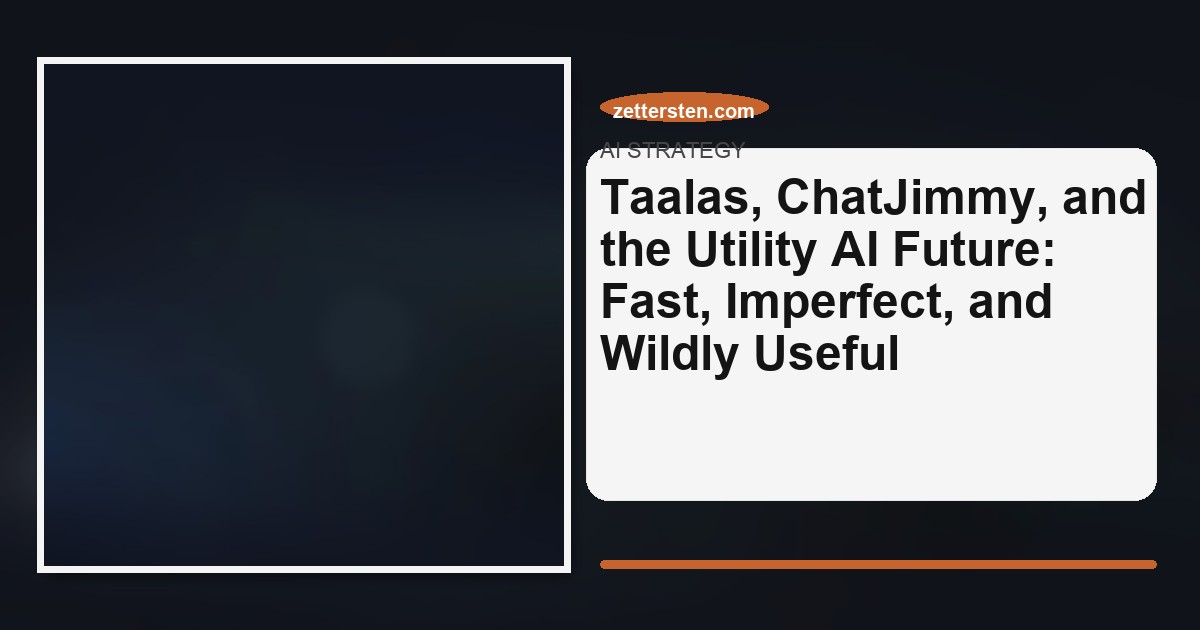
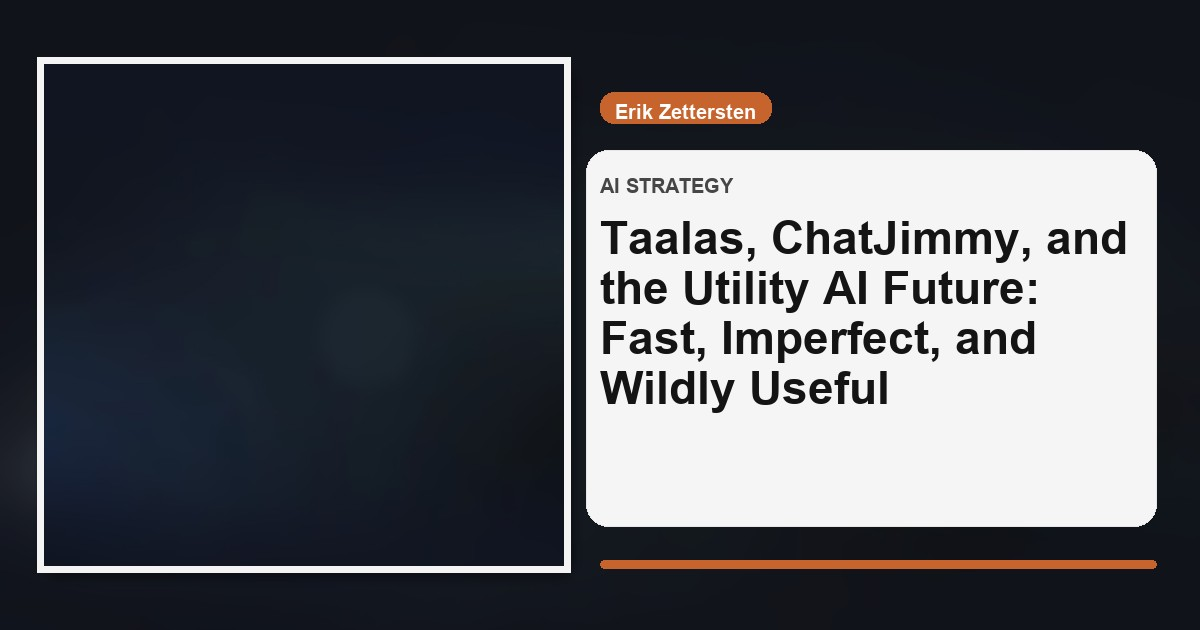
Polish OG card layout: fix label sizing, category placement, and brand name

Changed region(s): [[0.4933, 0.1206, 0.9558, 0.6635], [0.4625, 0.7841, 0.9867, 0.8444]]

diff --git a/scripts/generate_og_images.py b/scripts/generate_og_images.py
@@ -39,6 +39,7 @@ BRAND_ORANGE = (199, 99, 44)
 BRAND_BG = (235, 235, 235)
 TEXT_DARK = (20, 20, 20)
 TEXT_MUTED = (70, 70, 70)
+RENDER_VERSION = "v2"
 
 
 def sha256_file(path: Path) -> str:
@@ -153,36 +154,29 @@ def create_og(source: Path, title: str, category: str, out_path: Path) -> None:
 
     # Right-side text area
     text_x = 600
-    title_width = CANVAS_W - text_x - SAFE_PAD
+    title_width = CANVAS_W - text_x - SAFE_PAD - 28
 
-    wrapped, title_font = fit_text(draw, title, title_width, max_lines=4)
-    title_bbox = draw.multiline_textbbox((text_x, 170), wrapped, font=title_font, spacing=8)
-
-    # Soft text backing plate
-    plate_pad = 24
-    plate = [
-        text_x - 14,
-        title_bbox[1] - 30,
-        CANVAS_W - SAFE_PAD,
-        title_bbox[3] + 120,
-    ]
-    draw.rounded_rectangle(plate, radius=22, fill=(245, 245, 245, 0), outline=(230, 230, 230), width=1)
+    # Soft text backing plate (fixed, keeps category + title fully inside)
+    plate = [text_x - 14, 150, CANVAS_W - SAFE_PAD, 526]
+    draw.rounded_rectangle(plate, radius=22, fill=(245, 245, 245), outline=(230, 230, 230), width=1)
 
     # Brand label
     badge_font = find_font("/System/Library/Fonts/Supplemental/Arial Bold.ttf", 20)
-    badge_text = "zettersten.com"
+    badge_text = "Erik Zettersten"
     bt = draw.textbbox((0, 0), badge_text, font=badge_font)
     bw, bh = bt[2] - bt[0], bt[3] - bt[1]
-    badge_rect = (text_x, 92, text_x + bw + 26, 92 + bh + 14)
-    draw.rounded_rectangle(badge_rect, radius=999, fill=BRAND_ORANGE)
-    draw.text((text_x + 13, 99), badge_text, font=badge_font, fill=(255, 255, 255))
+    badge_rect = (text_x, 92, text_x + bw + 30, 92 + bh + 16)
+    draw.rounded_rectangle(badge_rect, radius=14, fill=BRAND_ORANGE)
+    draw.text((text_x + 15, 100), badge_text, font=badge_font, fill=(255, 255, 255))
 
-    # Category
-    cat_font = find_font("/System/Library/Fonts/Supplemental/Arial.ttf", 22)
-    draw.text((text_x, 138), (category or "AI Strategy").upper(), font=cat_font, fill=TEXT_MUTED)
+    # Category (inside the plate)
+    cat_font = find_font("/System/Library/Fonts/Supplemental/Arial Bold.ttf", 20)
+    cat_text = (category or "AI Strategy").upper()
+    draw.text((text_x, 174), cat_text, font=cat_font, fill=TEXT_MUTED)
 
-    # Title
-    draw.multiline_text((text_x, 170), wrapped, font=title_font, fill=TEXT_DARK, spacing=8)
+    # Title (inside the plate, below category)
+    wrapped, title_font = fit_text(draw, title, title_width, max_lines=4)
+    draw.multiline_text((text_x, 212), wrapped, font=title_font, fill=TEXT_DARK, spacing=8)
 
     # Footer accent rule
     draw.rounded_rectangle((text_x, 560, CANVAS_W - SAFE_PAD, 568), radius=4, fill=BRAND_ORANGE)
@@ -223,7 +217,7 @@ def main() -> int:
         og_rel = f"/images/blog/og/{post_path.stem}-og.jpg"
         og_abs = PUBLIC_DIR / og_rel.lstrip("/")
 
-        key = f"{post_path.name}:{source_rel}:{title}:{category}"
+        key = f"{RENDER_VERSION}:{post_path.name}:{source_rel}:{title}:{category}"
         sig = hashlib.sha256((key + sha256_file(source_abs)).encode("utf-8")).hexdigest()
 
         if manifest.get(post_path.name) != sig or not og_abs.exists():
